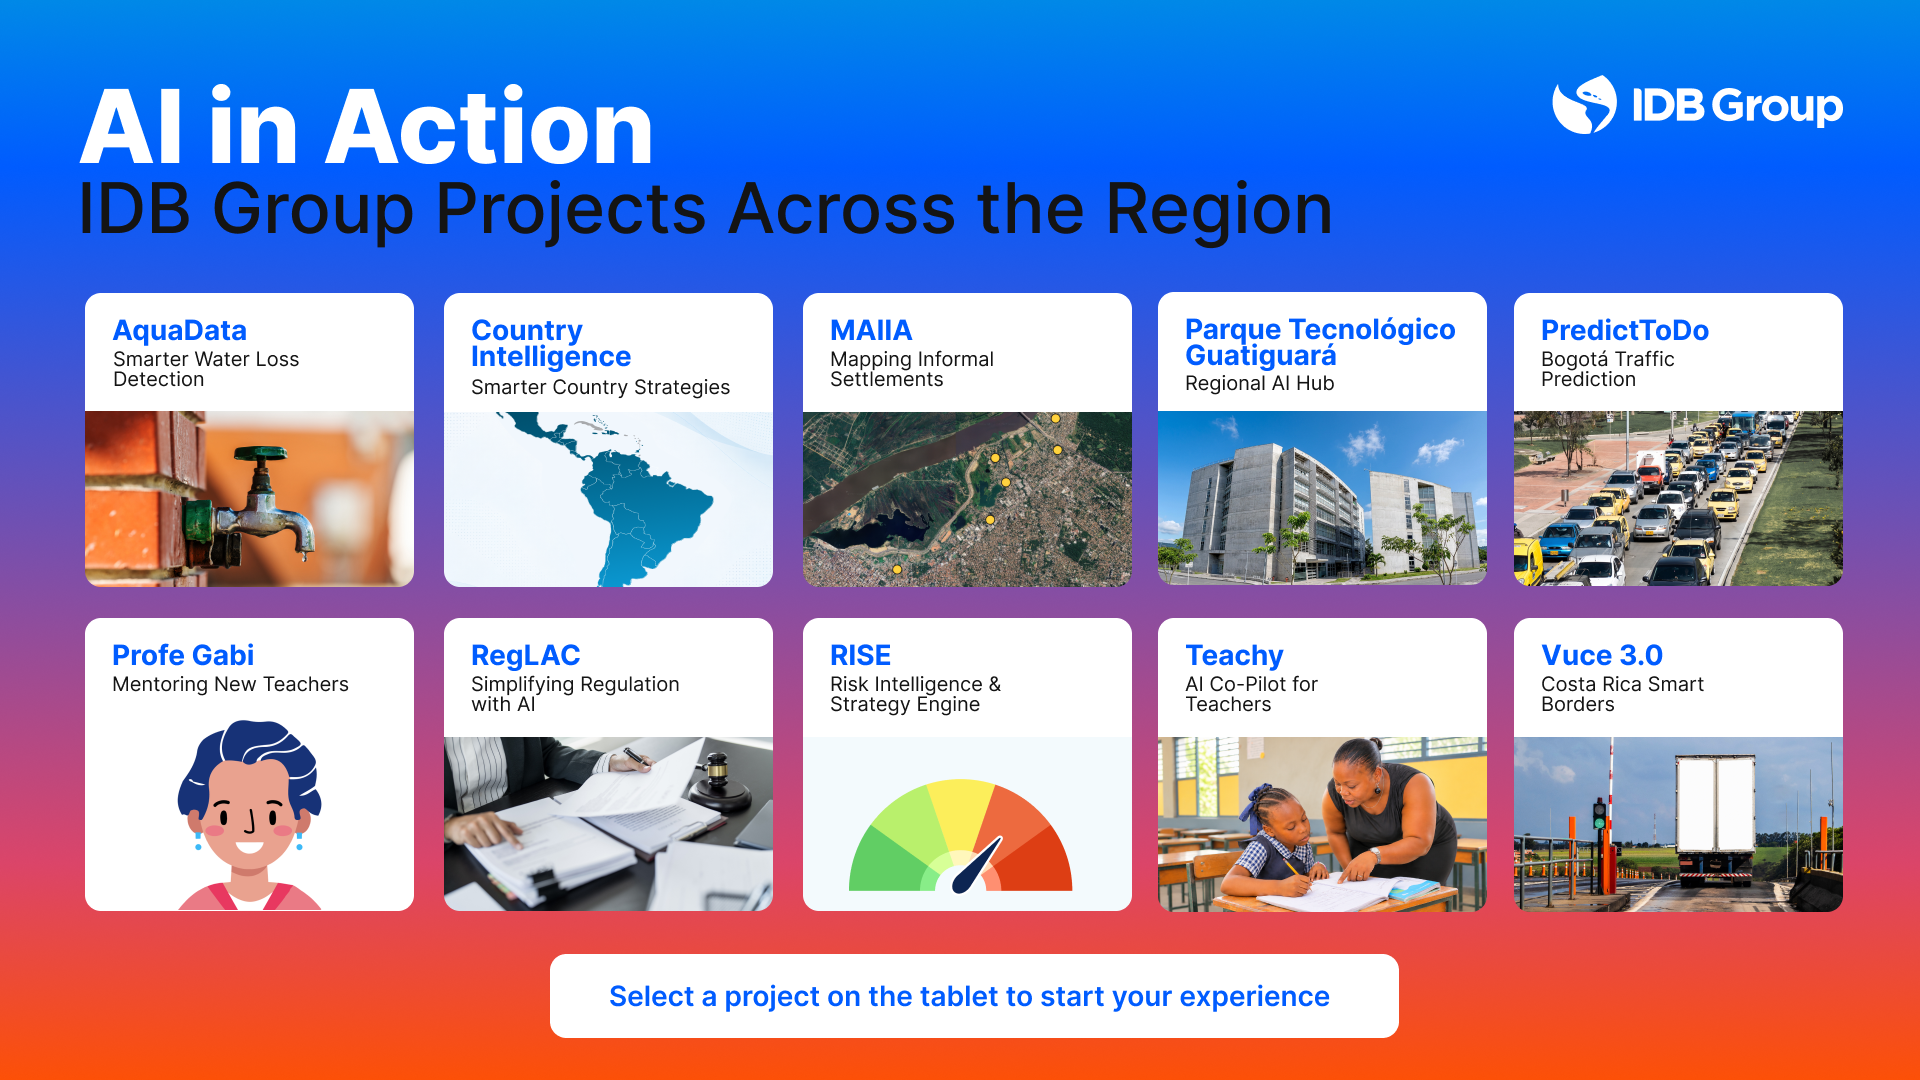
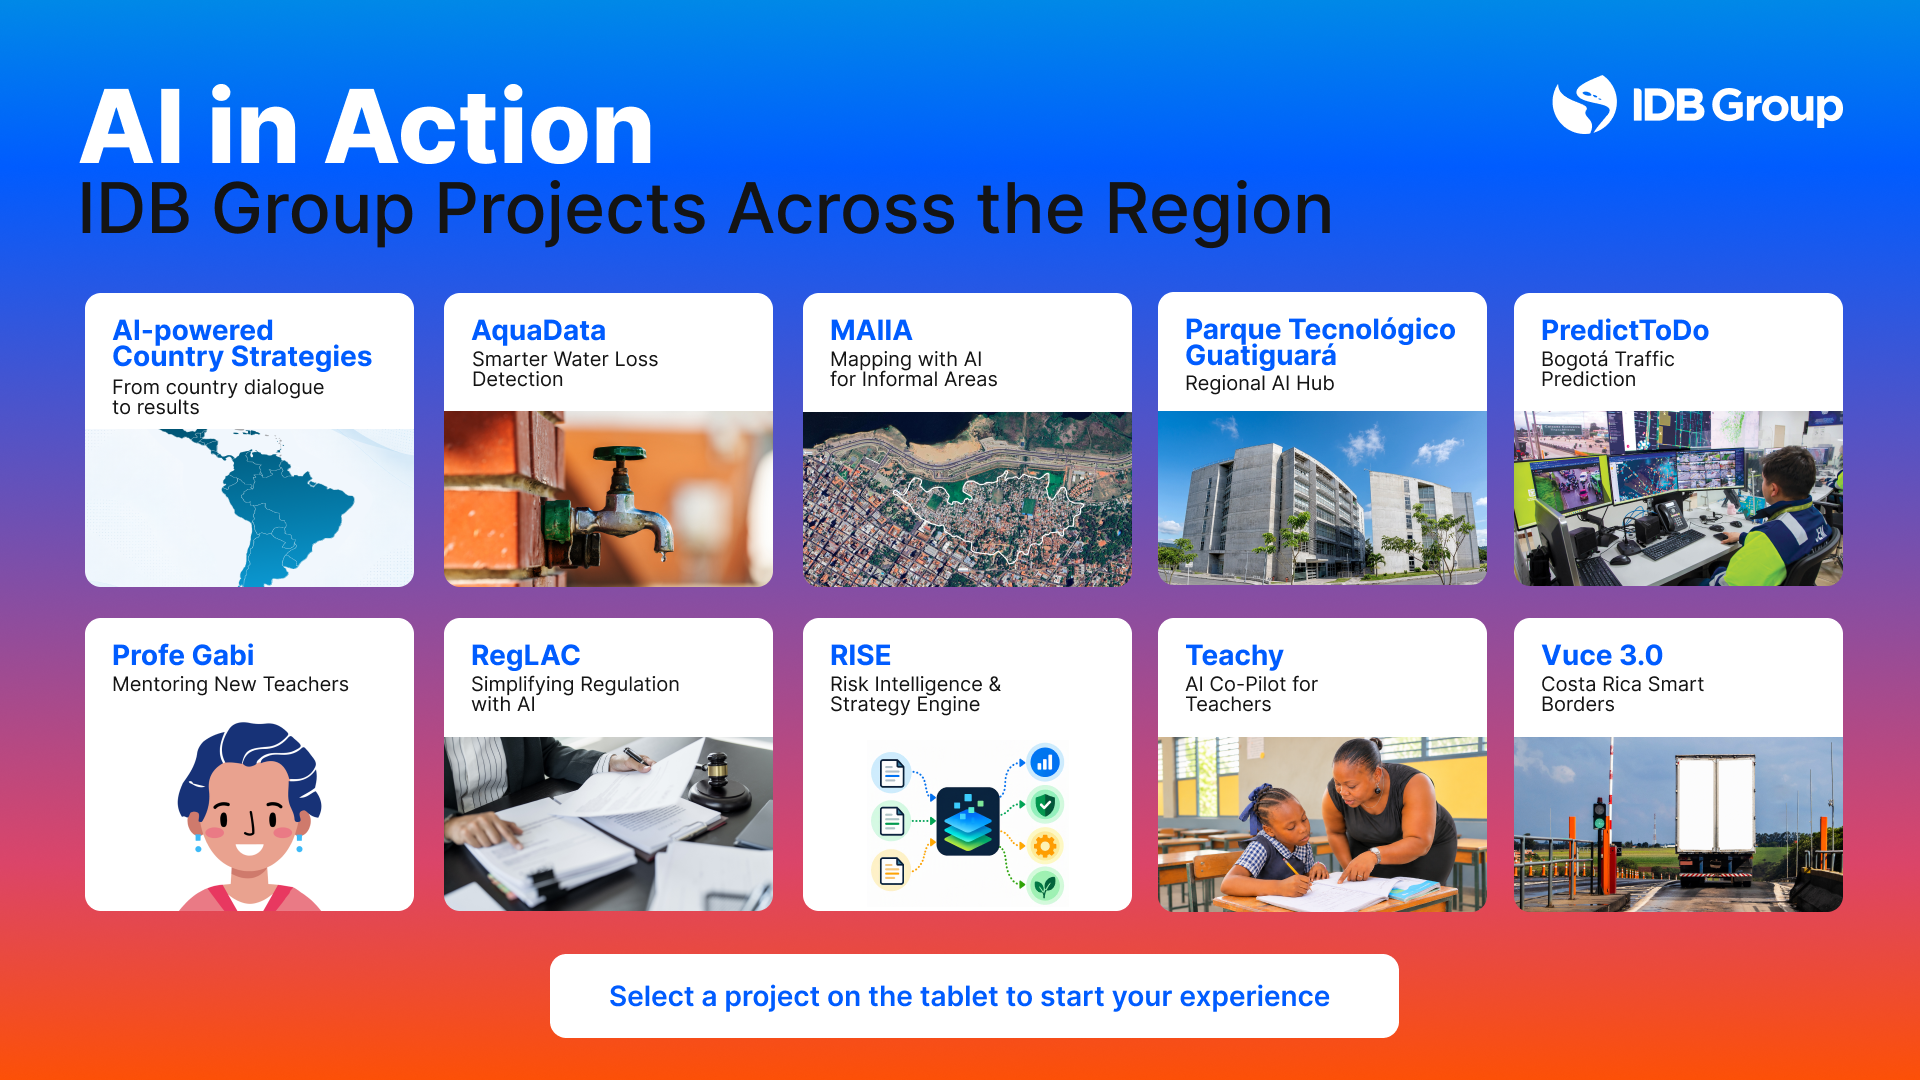
feat(home): update tablet and TV with supplied artwork (#32)

diff --git a/display.html b/display.html
@@ -1,1 +1,1 @@
-<!doctype html><html lang="en"><head><meta charset="UTF-8"><meta name="viewport" content="width=device-width, initial-scale=1"><title>AI in Action | Main Display</title><link rel="stylesheet" href="shared/styles.css?v=20261029-01"><link rel="stylesheet" href="projects/01-aquadata/aquadata.css?v=20261107-02"><link rel="stylesheet" href="projects/03-costa-rica-smart-borders/module.css?v=20261109-ui-1"><link rel="stylesheet" href="projects/04-parque-tecnologico-guatiguara/module.css?v=20261108-gt-4"><link rel="stylesheet" href="projects/05-profe-gabi/module.css?v=20261109-chat-font22"><link rel="stylesheet" href="projects/05-profe-gabi/artwork.css?v=20261109-balanced-experience"><link rel="stylesheet" href="projects/06-reglac/module.css"><link rel="stylesheet" href="projects/07-csd-maiia/module.css"><link rel="stylesheet" href="projects/08-teachy/module.css?v=20261103-video-1"><link rel="stylesheet" href="projects/11-rsm-rise/module.css?v=20261106-rise-open-game"><link rel="stylesheet" href="projects/10-vpc-country-intelligence/module.css?v=20261106-country-intelligence"><link rel="stylesheet" href="projects/02-bogota-traffic-prediction/rebrand.css?v=20261108-navbar-01"><link rel="stylesheet" href="projects/02-bogota-traffic-prediction/insights.css?v=20261109-stage-22"><link rel="stylesheet" href="projects/02-bogota-traffic-prediction/control-center.css?v=20261109-stage-22"><link rel="stylesheet" href="projects/02-bogota-traffic-prediction/completion.css?v=20261107-01"><link rel="stylesheet" href="shared/home-branding.css?v=20261110-home-art"></head><body><div id="app"></div><script src="shared/projects.js?v=20261029-01"></script><script src="shared/home-art.js?v=20261110-home-art"></script><script src="shared/brand-art.js"></script><script src="shared/brand.js?v=20261029-01"></script><script src="shared/sync.js?v=20261106-country-intelligence"></script><script src="shared/aquadata.js?v=20261107-01"></script><script src="projects/01-aquadata/visual.js?v=20261107-03"></script><script src="projects/05-profe-gabi/state.js?v=20261109-balanced-experience"></script><script src="projects/05-profe-gabi/conversations.js?v=20261109-balanced-experience"></script><script src="projects/05-profe-gabi/artwork.js?v=20261109-balanced-experience"></script><script src="projects/05-profe-gabi/experience.js?v=20261109-balanced-experience"></script><script src="projects/06-reglac/state.js"></script><script src="projects/06-reglac/experience.js"></script><script src="projects/07-csd-maiia/state.js"></script><script src="projects/07-csd-maiia/experience.js"></script><script src="projects/07-csd-maiia/artwork.js"></script><script src="projects/08-teachy/experience.js?v=20261103-video-1"></script><script src="projects/03-costa-rica-smart-borders/tv.js?v=20261109-ui-1"></script><script src="projects/11-rsm-rise/state.js?v=20261106-rise-open-game"></script><script src="projects/11-rsm-rise/game.js?v=20261106-rise-open-game"></script><script src="projects/11-rsm-rise/experience.js?v=20261106-rise-open-game"></script><script src="projects/10-vpc-country-intelligence/state.js?v=20261106-country-intelligence"></script><script src="projects/10-vpc-country-intelligence/translations.js?v=20261106-country-intelligence"></script><script src="projects/10-vpc-country-intelligence/prototype.js?v=20261106-country-intelligence"></script><script src="projects/10-vpc-country-intelligence/experience.js?v=20261106-country-intelligence"></script><script src="shared/bogota-traffic.js?v=20261107-info-03"></script><script src="projects/02-bogota-traffic-prediction/visual.js?v=20261108-navbar-02"></script><script src="projects/02-bogota-traffic-prediction/vendor/qrcode.js?v=1.4.4"></script><script src="projects/02-bogota-traffic-prediction/ranking.js?v=20261107-01"></script><script src="projects/02-bogota-traffic-prediction/completion.js?v=20261107-02"></script><script src="projects/02-bogota-traffic-prediction/icons.js?v=20261110-stage-22"></script><script src="projects/02-bogota-traffic-prediction/pulse-vial.js?v=20261109-stage-22"></script><script src="projects/02-bogota-traffic-prediction/insights.js?v=20261109-stage-22"></script><script src="projects/02-bogota-traffic-prediction/exploration.js?v=20261109-stage-22"></script><script src="projects/02-bogota-traffic-prediction/view-state.js?v=20261108-city-01"></script><script src="projects/02-bogota-traffic-prediction/native-map.js?v=20261110-stage-22"></script><script src="projects/02-bogota-traffic-prediction/control-center.js?v=20261109-stage-22"></script><script src="shared/display.js?v=20261110-home-art"></script></body></html>
+<!doctype html><html lang="en"><head><meta charset="UTF-8"><meta name="viewport" content="width=device-width, initial-scale=1"><title>AI in Action | Main Display</title><link rel="stylesheet" href="shared/styles.css?v=20261029-01"><link rel="stylesheet" href="projects/01-aquadata/aquadata.css?v=20261107-02"><link rel="stylesheet" href="projects/03-costa-rica-smart-borders/module.css?v=20261109-ui-1"><link rel="stylesheet" href="projects/04-parque-tecnologico-guatiguara/module.css?v=20261108-gt-4"><link rel="stylesheet" href="projects/05-profe-gabi/module.css?v=20261109-chat-font22"><link rel="stylesheet" href="projects/05-profe-gabi/artwork.css?v=20261109-balanced-experience"><link rel="stylesheet" href="projects/06-reglac/module.css"><link rel="stylesheet" href="projects/07-csd-maiia/module.css"><link rel="stylesheet" href="projects/08-teachy/module.css?v=20261103-video-1"><link rel="stylesheet" href="projects/11-rsm-rise/module.css?v=20261106-rise-open-game"><link rel="stylesheet" href="projects/10-vpc-country-intelligence/module.css?v=20261106-country-intelligence"><link rel="stylesheet" href="projects/02-bogota-traffic-prediction/rebrand.css?v=20261108-navbar-01"><link rel="stylesheet" href="projects/02-bogota-traffic-prediction/insights.css?v=20261109-stage-22"><link rel="stylesheet" href="projects/02-bogota-traffic-prediction/control-center.css?v=20261109-stage-22"><link rel="stylesheet" href="projects/02-bogota-traffic-prediction/completion.css?v=20261107-01"><link rel="stylesheet" href="shared/home-branding.css?v=20261110-home-art"></head><body><div id="app"></div><script src="shared/projects.js?v=20261029-01"></script><script src="shared/home-art.js?v=20261110-home-refresh"></script><script src="shared/brand-art.js"></script><script src="shared/brand.js?v=20261029-01"></script><script src="shared/sync.js?v=20261106-country-intelligence"></script><script src="shared/aquadata.js?v=20261107-01"></script><script src="projects/01-aquadata/visual.js?v=20261107-03"></script><script src="projects/05-profe-gabi/state.js?v=20261109-balanced-experience"></script><script src="projects/05-profe-gabi/conversations.js?v=20261109-balanced-experience"></script><script src="projects/05-profe-gabi/artwork.js?v=20261109-balanced-experience"></script><script src="projects/05-profe-gabi/experience.js?v=20261109-balanced-experience"></script><script src="projects/06-reglac/state.js"></script><script src="projects/06-reglac/experience.js"></script><script src="projects/07-csd-maiia/state.js"></script><script src="projects/07-csd-maiia/experience.js"></script><script src="projects/07-csd-maiia/artwork.js"></script><script src="projects/08-teachy/experience.js?v=20261103-video-1"></script><script src="projects/03-costa-rica-smart-borders/tv.js?v=20261109-ui-1"></script><script src="projects/11-rsm-rise/state.js?v=20261106-rise-open-game"></script><script src="projects/11-rsm-rise/game.js?v=20261106-rise-open-game"></script><script src="projects/11-rsm-rise/experience.js?v=20261106-rise-open-game"></script><script src="projects/10-vpc-country-intelligence/state.js?v=20261106-country-intelligence"></script><script src="projects/10-vpc-country-intelligence/translations.js?v=20261106-country-intelligence"></script><script src="projects/10-vpc-country-intelligence/prototype.js?v=20261106-country-intelligence"></script><script src="projects/10-vpc-country-intelligence/experience.js?v=20261106-country-intelligence"></script><script src="shared/bogota-traffic.js?v=20261107-info-03"></script><script src="projects/02-bogota-traffic-prediction/visual.js?v=20261108-navbar-02"></script><script src="projects/02-bogota-traffic-prediction/vendor/qrcode.js?v=1.4.4"></script><script src="projects/02-bogota-traffic-prediction/ranking.js?v=20261107-01"></script><script src="projects/02-bogota-traffic-prediction/completion.js?v=20261107-02"></script><script src="projects/02-bogota-traffic-prediction/icons.js?v=20261110-stage-22"></script><script src="projects/02-bogota-traffic-prediction/pulse-vial.js?v=20261109-stage-22"></script><script src="projects/02-bogota-traffic-prediction/insights.js?v=20261109-stage-22"></script><script src="projects/02-bogota-traffic-prediction/exploration.js?v=20261109-stage-22"></script><script src="projects/02-bogota-traffic-prediction/view-state.js?v=20261108-city-01"></script><script src="projects/02-bogota-traffic-prediction/native-map.js?v=20261110-stage-22"></script><script src="projects/02-bogota-traffic-prediction/control-center.js?v=20261109-stage-22"></script><script src="shared/display.js?v=20261110-home-art"></script></body></html>

diff --git a/shared/home-art.js b/shared/home-art.js
@@ -1,9 +1,9 @@
 /* Display order belongs to the approved home artwork; project IDs remain stable. */
 (function(){
  const cards=[
+  {id:'10',name:'AI-powered Country Strategies',subtitle:'From country dialogue to results'},
   {id:'01',name:'AquaData',subtitle:'Smarter Water Loss Detection'},
-  {id:'10',name:'Country Intelligence',subtitle:'Smarter Country Strategies'},
-  {id:'07',name:'MAIIA',subtitle:'Mapping Informal Settlements'},
+  {id:'07',name:'MAIIA',subtitle:'Mapping with AI for Informal Areas'},
   {id:'04',name:'Parque Tecnológico Guatiguará',subtitle:'Regional AI Hub'},
   {id:'02',name:'PredictToDo',subtitle:'Bogotá Traffic Prediction'},
   {id:'05',name:'Profe Gabi',subtitle:'Mentoring New Teachers'},
@@ -21,7 +21,7 @@
    const left=columns[index%5]/1920*100,top=(index<5?293:618)/1080*100;
    return `<a class="home-art-target" href="${escape(project.href+stationQuery)}" data-project="${card.id}" aria-label="${escape(card.name+' — '+card.subtitle)}" style="left:${left}%;top:${top}%;width:${329/1920*100}%;height:${294/1080*100}%"></a>`;
   }).join('')}</nav>`:'';
-  return `<main class="home-art-viewport" aria-label="AI in Action — IDB Group Projects Across the Region"><div class="home-art-canvas"><img class="home-art-image" src="assets/home/${interactive?'tablet':'display'}-en.png" width="1920" height="1080" alt="AI in Action. IDB Group Projects Across the Region. ${interactive?'':cards.map(card=>escape(card.name+' — '+card.subtitle)).join('; ')+'. '}${instruction}." draggable="false">${links}</div></main>`;
+  return `<main class="home-art-viewport" aria-label="AI in Action — IDB Group Projects Across the Region"><div class="home-art-canvas"><img class="home-art-image" src="assets/home/${interactive?'tablet':'display'}-en.png?v=20261110-home-refresh" width="1920" height="1080" alt="AI in Action. IDB Group Projects Across the Region. ${interactive?'':cards.map(card=>escape(card.name+' — '+card.subtitle)).join('; ')+'. '}${instruction}." draggable="false">${links}</div></main>`;
  }
  window.EXHIBITION_HOME={cards,render};
 })();

diff --git a/index.html b/index.html
@@ -1,1 +1,1 @@
-<!doctype html><html lang="en"><head><meta charset="UTF-8"><meta name="viewport" content="width=device-width, initial-scale=1, viewport-fit=cover"><meta name="theme-color" content="#005cff"><meta name="description" content="AI in Action · IDB Group Projects Across The Region. Select a project on the exhibition tablet."><title>AI in Action - IDB Group Projects Across The Region</title><link rel="stylesheet" href="shared/styles.css"><link rel="stylesheet" href="shared/home-branding.css?v=20261110-home-art"></head><body class="home-page"><div id="app"></div><script src="shared/projects.js"></script><script src="shared/home-art.js?v=20261110-home-art"></script><script src="shared/brand-art.js"></script><script src="shared/brand.js"></script><script src="shared/sync.js"></script><script src="shared/home.js?v=20261110-home-art"></script></body></html>
+<!doctype html><html lang="en"><head><meta charset="UTF-8"><meta name="viewport" content="width=device-width, initial-scale=1, viewport-fit=cover"><meta name="theme-color" content="#005cff"><meta name="description" content="AI in Action · IDB Group Projects Across The Region. Select a project on the exhibition tablet."><title>AI in Action - IDB Group Projects Across The Region</title><link rel="stylesheet" href="shared/styles.css"><link rel="stylesheet" href="shared/home-branding.css?v=20261110-home-art"></head><body class="home-page"><div id="app"></div><script src="shared/projects.js"></script><script src="shared/home-art.js?v=20261110-home-refresh"></script><script src="shared/brand-art.js"></script><script src="shared/brand.js"></script><script src="shared/sync.js"></script><script src="shared/home.js?v=20261110-home-art"></script></body></html>

diff --git a/tests/home-navigation.test.js b/tests/home-navigation.test.js
@@ -29,7 +29,7 @@ test('the root menu also opens without an explicit station query',()=>{
  assert.equal((openHome('',7).html.match(/data-project="/g)||[]).length,10);
 });
 test('artwork card order opens the matching project and preserves the pairing',async()=>{
- const expected=['01','10','07','04','02','05','06','11','08','03'];
+ const expected=['10','01','07','04','02','05','06','11','08','03'];
  const result=openHome('?station=3',3);
  assert.deepEqual(Array.from(result.html.matchAll(/data-project="(\d+)"/g),match=>match[1]),expected);
  for(const link of result.links){
